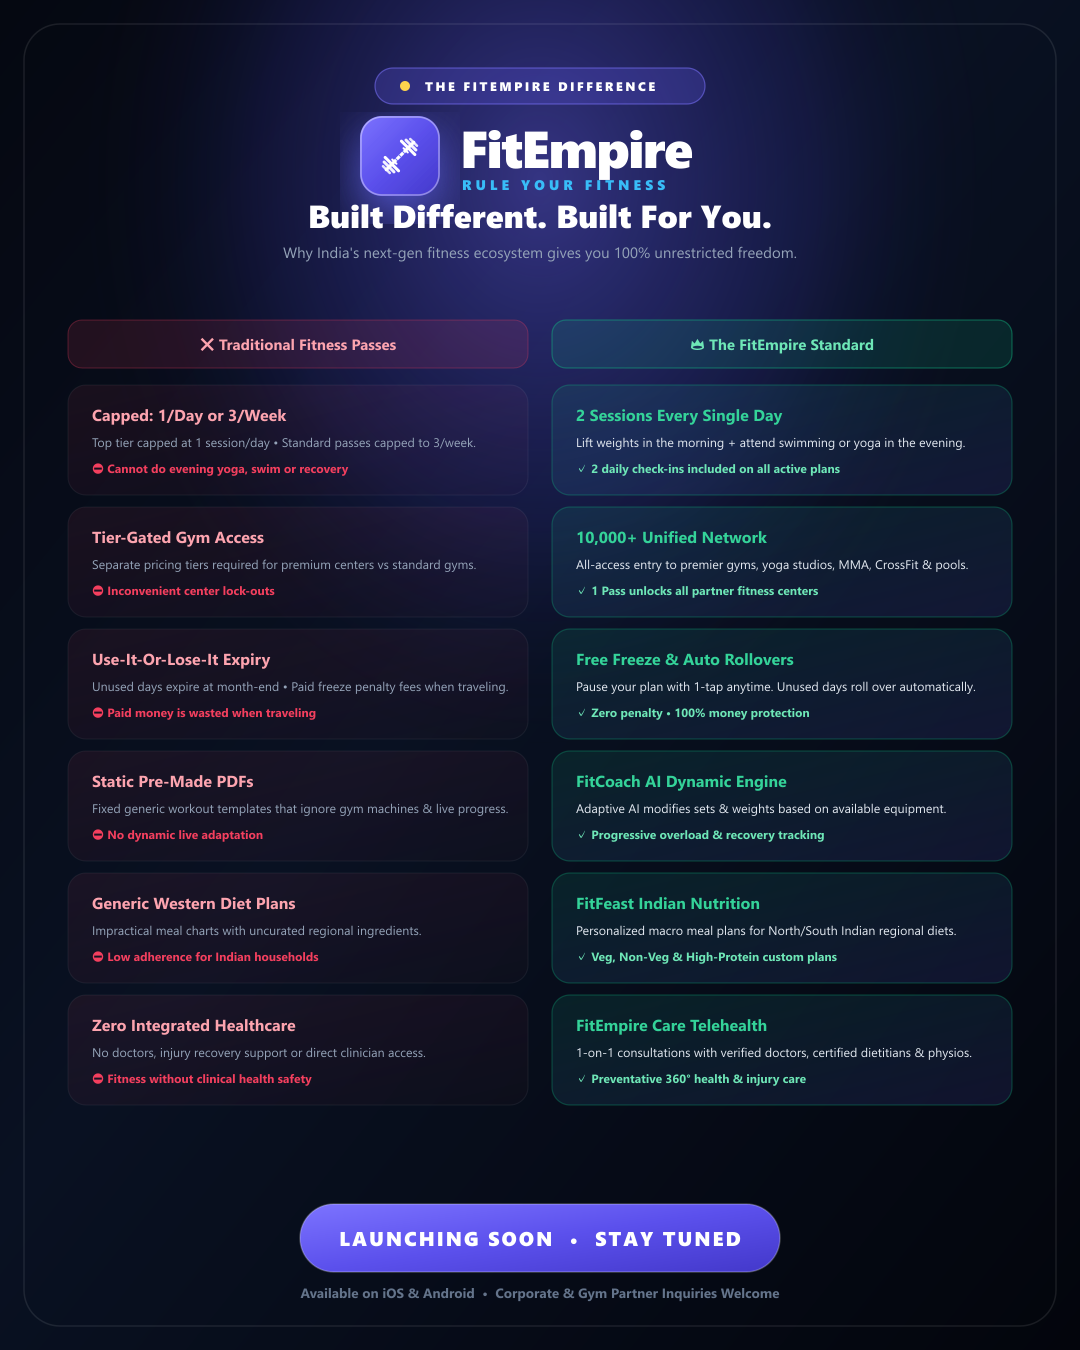
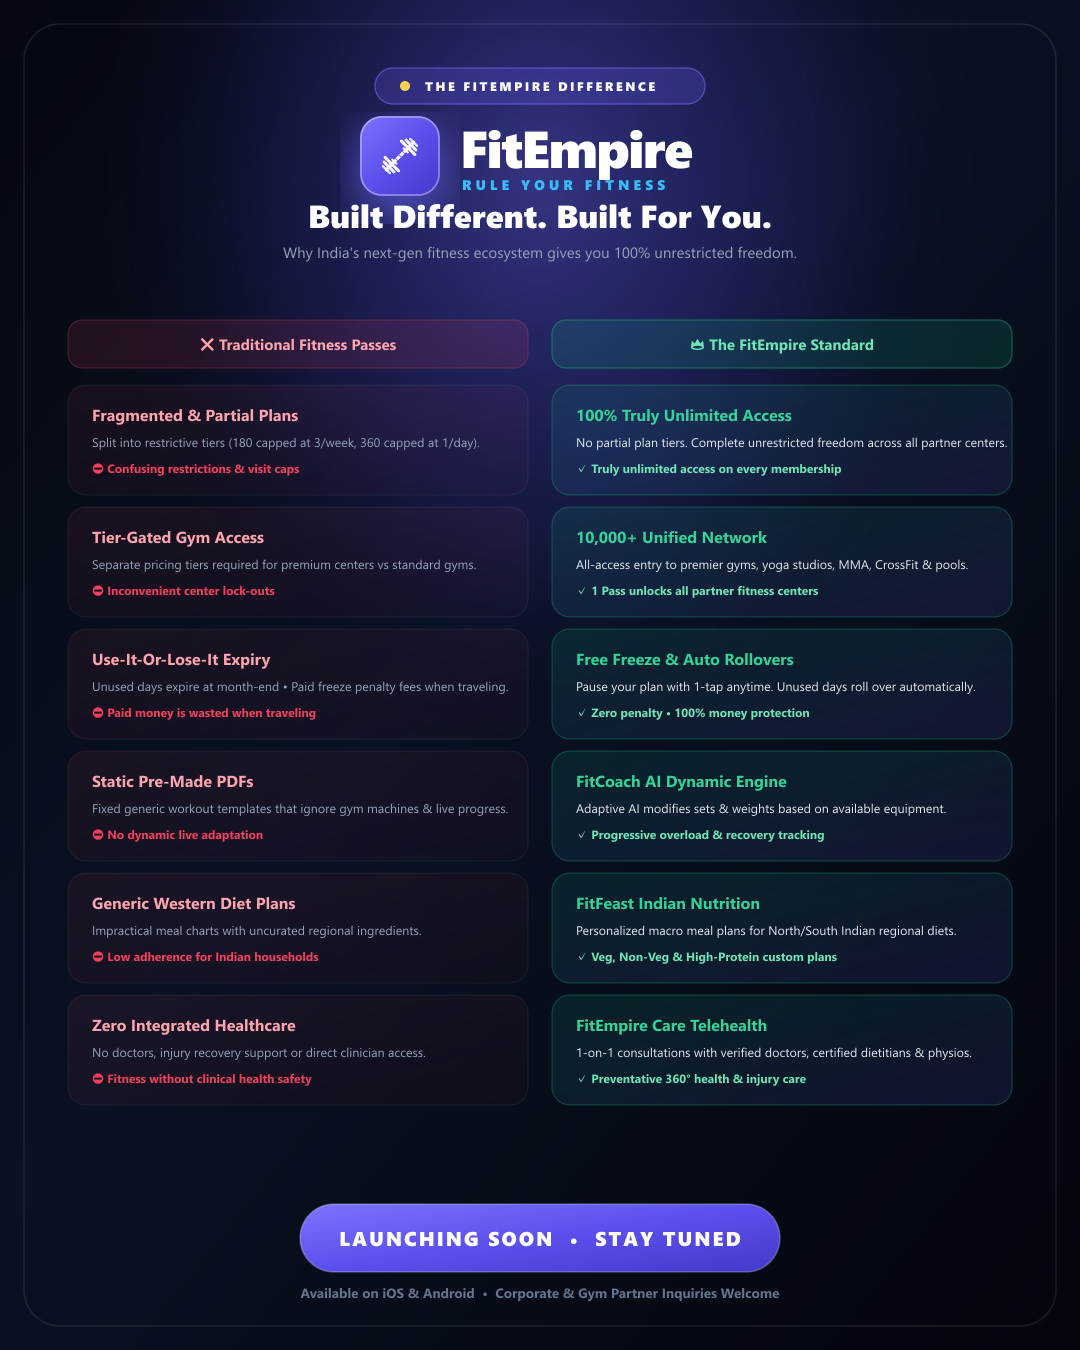
assets: update difference posters to emphasize 100% Truly Unlimited Access vs Fragmented & Partial Plans

Changed region(s): [[0.55, 0.28, 0.8861, 0.3733], [0.0917, 0.28, 0.3056, 0.3733], [0.3361, 0.3111, 0.4278, 0.3422]]

diff --git a/scripts/marketing/generate_vertical_only_posters.js b/scripts/marketing/generate_vertical_only_posters.js
@@ -50,7 +50,7 @@ const vertical4x5Svg = `
   <g transform="translate(540, 68)">
     <rect x="-165" y="0" width="330" height="36" rx="18" fill="rgba(108, 99, 255, 0.22)" stroke="rgba(124, 115, 255, 0.55)" stroke-width="1.2" />
     <circle cx="-135" cy="18" r="5" fill="#FCD34D" />
-    <text x="-115" y="23" font-family="'Segoe UI', Roboto, -apple-system, sans-serif" font-size="12.5" font-weight="900" letter-spacing="2.5" fill="#FFFFFF">
+    <text x="-115" y="23" font-family="'Segoe UI', Roboto, sans-serif" font-size="12.5" font-weight="900" letter-spacing="2.5" fill="#FFFFFF">
       THE FITEMPIRE ADVANTAGE
     </text>
 
@@ -97,24 +97,24 @@ const vertical4x5Svg = `
   <!-- 2. Vertical Feature Differentiator Cards (6 Stacked Cards) -->
   <g transform="translate(68, 325)">
     
-    <!-- 1. Dual Daily Sessions -->
+    <!-- 1. 100% Truly Unlimited Access -->
     <g transform="translate(0, 0)">
       <rect x="0" y="0" width="944" height="110" rx="22" fill="url(#vCardGrad)" stroke="rgba(255,255,255,0.12)" stroke-width="1.2" />
       <rect x="18" y="18" width="74" height="74" rx="18" fill="rgba(56, 189, 248, 0.18)" stroke="rgba(56, 189, 248, 0.4)" stroke-width="1.2" />
       <text x="55" y="64" text-anchor="middle" font-family="'Segoe UI', Roboto, sans-serif" font-size="32">⚡</text>
-      <text x="110" y="44" font-family="'Segoe UI', Roboto, sans-serif" font-size="20" font-weight="800" fill="#FFFFFF">Dual Daily Workout Sessions</text>
-      <text x="110" y="70" font-family="'Segoe UI', Roboto, sans-serif" font-size="13.5" font-weight="500" fill="#94A3B8">Lift weights in the morning + attend evening swimming or yoga on the exact same day.</text>
-      <text x="110" y="94" font-family="'Segoe UI', Roboto, sans-serif" font-size="12" font-weight="800" fill="#38BDF8">👑 FitEmpire: 2 Daily Sessions Included &#160;•&#160; <tspan fill="#F87171">❌ Others: Capped at 1/day (or 3/week on standard plans)</tspan></text>
+      <text x="110" y="44" font-family="'Segoe UI', Roboto, sans-serif" font-size="20" font-weight="800" fill="#FFFFFF">100% Truly Unlimited Access</text>
+      <text x="110" y="70" font-family="'Segoe UI', Roboto, sans-serif" font-size="13.5" font-weight="500" fill="#94A3B8">No partial plan tiers. Complete unrestricted freedom across all partner fitness centers.</text>
+      <text x="110" y="94" font-family="'Segoe UI', Roboto, sans-serif" font-size="12" font-weight="800" fill="#38BDF8">👑 FitEmpire: 100% Truly Unlimited &#160;•&#160; <tspan fill="#F87171">❌ Others: Fragmented 180 &amp; 360 Partial Plans</tspan></text>
     </g>
 
-    <!-- 2. Unrestricted Multi-Gym Access -->
+    <!-- 2. 10,000+ Multi-Gym Freedom -->
     <g transform="translate(0, 125)">
       <rect x="0" y="0" width="944" height="110" rx="22" fill="url(#vCardGrad)" stroke="rgba(255,255,255,0.12)" stroke-width="1.2" />
-      <rect x="18" y="18" width="74" height="74" rx="18" fill="rgba(16, 185, 129, 0.18)" stroke="rgba(16, 185, 129, 0.4)" stroke-width="1.2" />
+      <rect x="18" y="18" width="74" height="74" rx="18" fill="rgba(168, 85, 247, 0.18)" stroke="rgba(168, 85, 247, 0.4)" stroke-width="1.2" />
       <text x="55" y="64" text-anchor="middle" font-family="'Segoe UI', Roboto, sans-serif" font-size="32">🏋</text>
       <text x="110" y="44" font-family="'Segoe UI', Roboto, sans-serif" font-size="20" font-weight="800" fill="#FFFFFF">10,000+ Multi-Gym Freedom</text>
       <text x="110" y="70" font-family="'Segoe UI', Roboto, sans-serif" font-size="13.5" font-weight="500" fill="#94A3B8">Work out at premier gyms, yoga studios, MMA, CrossFit &amp; aquatic arenas nationwide.</text>
-      <text x="110" y="94" font-family="'Segoe UI', Roboto, sans-serif" font-size="12" font-weight="800" fill="#34D399">👑 FitEmpire: Complete Multi-Center Access &#160;•&#160; <tspan fill="#94A3B8">Seamless contactless turnstile entry</tspan></text>
+      <text x="110" y="94" font-family="'Segoe UI', Roboto, sans-serif" font-size="12" font-weight="800" fill="#C084FC">👑 FitEmpire: Complete Multi-Center Access &#160;•&#160; <tspan fill="#94A3B8">Seamless contactless turnstile entry</tspan></text>
     </g>
 
     <!-- 3. Free Freeze & Rollovers -->
@@ -130,11 +130,11 @@ const vertical4x5Svg = `
     <!-- 4. FitCoach AI Engine -->
     <g transform="translate(0, 375)">
       <rect x="0" y="0" width="944" height="110" rx="22" fill="url(#vCardGrad)" stroke="rgba(255,255,255,0.12)" stroke-width="1.2" />
-      <rect x="18" y="18" width="74" height="74" rx="18" fill="rgba(168, 85, 247, 0.18)" stroke="rgba(168, 85, 247, 0.4)" stroke-width="1.2" />
+      <rect x="18" y="18" width="74" height="74" rx="18" fill="rgba(16, 185, 129, 0.18)" stroke="rgba(16, 185, 129, 0.4)" stroke-width="1.2" />
       <text x="55" y="64" text-anchor="middle" font-family="'Segoe UI', Roboto, sans-serif" font-size="32">🤖</text>
       <text x="110" y="44" font-family="'Segoe UI', Roboto, sans-serif" font-size="20" font-weight="800" fill="#FFFFFF">FitCoach AI Adaptive Workout Engine</text>
       <text x="110" y="70" font-family="'Segoe UI', Roboto, sans-serif" font-size="13.5" font-weight="500" fill="#94A3B8">Dynamic real-time workout generator adjusts reps, weight &amp; splits to available gym gear.</text>
-      <text x="110" y="94" font-family="'Segoe UI', Roboto, sans-serif" font-size="12" font-weight="800" fill="#C084FC">👑 FitEmpire: Live Dynamic Overload AI &#160;•&#160; <tspan fill="#F87171">❌ Others: Static Generic PDF Templates</tspan></text>
+      <text x="110" y="94" font-family="'Segoe UI', Roboto, sans-serif" font-size="12" font-weight="800" fill="#34D399">👑 FitEmpire: Live Dynamic Overload AI &#160;•&#160; <tspan fill="#F87171">❌ Others: Static Generic PDF Templates</tspan></text>
     </g>
 
     <!-- 5. FitFeast Indian Macro Nutrition -->
@@ -268,19 +268,19 @@ const vertical9x16Svg = `
       <rect x="0" y="0" width="944" height="135" rx="24" fill="url(#sCardGrad)" stroke="rgba(255,255,255,0.12)" stroke-width="1.2" />
       <rect x="22" y="24" width="86" height="86" rx="20" fill="rgba(56, 189, 248, 0.18)" stroke="rgba(56, 189, 248, 0.4)" stroke-width="1.2" />
       <text x="65" y="76" text-anchor="middle" font-family="'Segoe UI', Roboto, sans-serif" font-size="38">⚡</text>
-      <text x="126" y="52" font-family="'Segoe UI', Roboto, sans-serif" font-size="22" font-weight="800" fill="#FFFFFF">Dual Daily Workout Sessions</text>
-      <text x="126" y="82" font-family="'Segoe UI', Roboto, sans-serif" font-size="14.5" font-weight="500" fill="#94A3B8">Lift weights in the morning + attend swimming or yoga on the exact same day.</text>
-      <text x="126" y="112" font-family="'Segoe UI', Roboto, sans-serif" font-size="13" font-weight="800" fill="#38BDF8">👑 FitEmpire: 2 Daily Sessions Included &#160;•&#160; <tspan fill="#F87171">❌ Others: Capped at 1/day (or 3/week on standard plans)</tspan></text>
+      <text x="126" y="52" font-family="'Segoe UI', Roboto, sans-serif" font-size="22" font-weight="800" fill="#FFFFFF">100% Truly Unlimited Access</text>
+      <text x="126" y="82" font-family="'Segoe UI', Roboto, sans-serif" font-size="14.5" font-weight="500" fill="#94A3B8">No partial plan tiers. Complete unrestricted freedom across all partner fitness centers.</text>
+      <text x="126" y="112" font-family="'Segoe UI', Roboto, sans-serif" font-size="13" font-weight="800" fill="#38BDF8">👑 FitEmpire: 100% Truly Unlimited &#160;•&#160; <tspan fill="#F87171">❌ Others: Fragmented 180 &amp; 360 Partial Plans</tspan></text>
     </g>
 
     <!-- 2 -->
     <g transform="translate(0, 155)">
       <rect x="0" y="0" width="944" height="135" rx="24" fill="url(#sCardGrad)" stroke="rgba(255,255,255,0.12)" stroke-width="1.2" />
-      <rect x="22" y="24" width="86" height="86" rx="20" fill="rgba(16, 185, 129, 0.18)" stroke="rgba(16, 185, 129, 0.4)" stroke-width="1.2" />
+      <rect x="22" y="24" width="86" height="86" rx="20" fill="rgba(168, 85, 247, 0.18)" stroke="rgba(168, 85, 247, 0.4)" stroke-width="1.2" />
       <text x="65" y="76" text-anchor="middle" font-family="'Segoe UI', Roboto, sans-serif" font-size="38">🏋</text>
       <text x="126" y="52" font-family="'Segoe UI', Roboto, sans-serif" font-size="22" font-weight="800" fill="#FFFFFF">10,000+ Multi-Gym Network</text>
       <text x="126" y="82" font-family="'Segoe UI', Roboto, sans-serif" font-size="14.5" font-weight="500" fill="#94A3B8">Work out at premier gyms, yoga studios, MMA, CrossFit &amp; aquatic arenas nationwide.</text>
-      <text x="126" y="112" font-family="'Segoe UI', Roboto, sans-serif" font-size="13" font-weight="800" fill="#34D399">👑 FitEmpire: Complete Multi-Center Access &#160;•&#160; <tspan fill="#94A3B8">Seamless contactless turnstile entry</tspan></text>
+      <text x="126" y="112" font-family="'Segoe UI', Roboto, sans-serif" font-size="13" font-weight="800" fill="#C084FC">👑 FitEmpire: Complete Multi-Center Access &#160;•&#160; <tspan fill="#94A3B8">Seamless contactless turnstile entry</tspan></text>
     </g>
 
     <!-- 3 -->
@@ -296,11 +296,11 @@ const vertical9x16Svg = `
     <!-- 4 -->
     <g transform="translate(0, 465)">
       <rect x="0" y="0" width="944" height="135" rx="24" fill="url(#sCardGrad)" stroke="rgba(255,255,255,0.12)" stroke-width="1.2" />
-      <rect x="22" y="24" width="86" height="86" rx="20" fill="rgba(168, 85, 247, 0.18)" stroke="rgba(168, 85, 247, 0.4)" stroke-width="1.2" />
+      <rect x="22" y="24" width="86" height="86" rx="20" fill="rgba(16, 185, 129, 0.18)" stroke="rgba(16, 185, 129, 0.4)" stroke-width="1.2" />
       <text x="65" y="76" text-anchor="middle" font-family="'Segoe UI', Roboto, sans-serif" font-size="38">🤖</text>
       <text x="126" y="52" font-family="'Segoe UI', Roboto, sans-serif" font-size="22" font-weight="800" fill="#FFFFFF">FitCoach AI Adaptive Workout Engine</text>
       <text x="126" y="82" font-family="'Segoe UI', Roboto, sans-serif" font-size="14.5" font-weight="500" fill="#94A3B8">Dynamic real-time workout generator adjusts reps, weight &amp; splits to available gym gear.</text>
-      <text x="126" y="112" font-family="'Segoe UI', Roboto, sans-serif" font-size="13" font-weight="800" fill="#C084FC">👑 FitEmpire: Live Dynamic Overload AI &#160;•&#160; <tspan fill="#F87171">❌ Others: Static Generic PDF Templates</tspan></text>
+      <text x="126" y="112" font-family="'Segoe UI', Roboto, sans-serif" font-size="13" font-weight="800" fill="#34D399">👑 FitEmpire: Live Dynamic Overload AI &#160;•&#160; <tspan fill="#F87171">❌ Others: Static Generic PDF Templates</tspan></text>
     </g>
 
     <!-- 5 -->
@@ -344,19 +344,21 @@ const vertical9x16Svg = `
 `;
 
 async function generate() {
-  console.log('Rendering Pure Vertical Rectangle Posters with exact tiering copy...');
+  console.log('Rendering Pure Vertical Rectangle Posters with Truly Unlimited copy...');
 
   const vertical4x5Buffer = await sharp(Buffer.from(vertical4x5Svg)).png().toBuffer();
   const vertical9x16Buffer = await sharp(Buffer.from(vertical9x16Svg)).png().toBuffer();
 
   const destinations = [
     // 4:5 Vertical Feed Poster (1080 x 1350)
+    { file: `${REPO_ROOT}/assets/marketing/fitempire-vertical-advantage.png`, data: vertical4x5Buffer },
     { file: `${REPO_ROOT}/fitempire-admin/public/fitempire-vertical-advantage.png`, data: vertical4x5Buffer },
     { file: `${REPO_ROOT}/fitempire-partner/public/fitempire-vertical-advantage.png`, data: vertical4x5Buffer },
     { file: `${REPO_ROOT}/fitempire-mobile/assets/images/fitempire-vertical-advantage.png`, data: vertical4x5Buffer },
     { file: `${REPO_ROOT}/fitempire-backend/src/main/resources/static/fitempire-vertical-advantage.png`, data: vertical4x5Buffer },
 
     // 9:16 Full Story / Mobile Poster (1080 x 1920)
+    { file: `${REPO_ROOT}/assets/marketing/fitempire-vertical-story.png`, data: vertical9x16Buffer },
     { file: `${REPO_ROOT}/fitempire-admin/public/fitempire-vertical-story.png`, data: vertical9x16Buffer },
     { file: `${REPO_ROOT}/fitempire-partner/public/fitempire-vertical-story.png`, data: vertical9x16Buffer },
     { file: `${REPO_ROOT}/fitempire-mobile/assets/images/fitempire-vertical-story.png`, data: vertical9x16Buffer },

diff --git a/scripts/marketing/generate_comparison_posters.js b/scripts/marketing/generate_comparison_posters.js
@@ -116,17 +116,17 @@ const portraitComparisonSvg = `
   <!-- 3. 6 Key Differentiator Comparison Rows -->
   <g transform="translate(68, 385)">
     
-    <!-- Row 1: Session Limits (1/day or 3/week vs 2/day) -->
+    <!-- Row 1: True Unlimited vs Partial Fragmented Plans -->
     <g transform="translate(0, 0)">
       <rect x="0" y="0" width="460" height="110" rx="18" fill="url(#oldPassGrad)" stroke="rgba(255,255,255,0.06)" stroke-width="1" />
-      <text x="24" y="36" font-family="'Segoe UI', Roboto, sans-serif" font-size="16" font-weight="800" fill="#FDA4AF">Capped: 1/Day or 3/Week</text>
-      <text x="24" y="62" font-family="'Segoe UI', Roboto, sans-serif" font-size="12.5" font-weight="500" fill="#94A3B8">Top tier capped at 1 session/day • Standard passes capped to 3/week.</text>
-      <text x="24" y="88" font-family="'Segoe UI', Roboto, sans-serif" font-size="12" font-weight="700" fill="#F43F5E">⛔ Cannot do evening yoga, swim or recovery</text>
+      <text x="24" y="36" font-family="'Segoe UI', Roboto, sans-serif" font-size="16" font-weight="800" fill="#FDA4AF">Fragmented &amp; Partial Plans</text>
+      <text x="24" y="62" font-family="'Segoe UI', Roboto, sans-serif" font-size="12.5" font-weight="500" fill="#94A3B8">Split into restrictive tiers (180 capped at 3/week, 360 capped at 1/day).</text>
+      <text x="24" y="88" font-family="'Segoe UI', Roboto, sans-serif" font-size="12" font-weight="700" fill="#F43F5E">⛔ Confusing restrictions &amp; visit caps</text>
 
       <rect x="484" y="0" width="460" height="110" rx="18" fill="url(#fitEmpireGrad)" stroke="rgba(16, 185, 129, 0.3)" stroke-width="1.2" />
-      <text x="508" y="36" font-family="'Segoe UI', Roboto, sans-serif" font-size="16" font-weight="800" fill="#34D399">2 Sessions Every Single Day</text>
-      <text x="508" y="62" font-family="'Segoe UI', Roboto, sans-serif" font-size="12.5" font-weight="500" fill="#E2E8F0">Lift weights in the morning + attend swimming or yoga in the evening.</text>
-      <text x="508" y="88" font-family="'Segoe UI', Roboto, sans-serif" font-size="12" font-weight="800" fill="#6EE7B7">✓ 2 daily check-ins included on all active plans</text>
+      <text x="508" y="36" font-family="'Segoe UI', Roboto, sans-serif" font-size="16" font-weight="800" fill="#34D399">100% Truly Unlimited Access</text>
+      <text x="508" y="62" font-family="'Segoe UI', Roboto, sans-serif" font-size="12.5" font-weight="500" fill="#E2E8F0">No partial plan tiers. Complete unrestricted freedom across all partner centers.</text>
+      <text x="508" y="88" font-family="'Segoe UI', Roboto, sans-serif" font-size="12" font-weight="800" fill="#6EE7B7">✓ Truly unlimited access on every membership</text>
     </g>
 
     <!-- Row 2: Facility & Multi-Gym Access -->
@@ -305,15 +305,15 @@ const landscapeComparisonSvg = `
       👑 The FitEmpire Standard
     </text>
 
-    <!-- Comparison Item 1: Sessions per day -->
+    <!-- Comparison Item 1: True Unlimited vs Fragmented Plans -->
     <g transform="translate(0, 56)">
       <rect x="0" y="0" width="840" height="88" rx="16" fill="url(#oldPassGrad)" stroke="rgba(255,255,255,0.06)" stroke-width="1" />
-      <text x="24" y="34" font-family="'Segoe UI', Roboto, sans-serif" font-size="16" font-weight="800" fill="#FDA4AF">Capped: 1/Day or 3/Week</text>
-      <text x="24" y="58" font-family="'Segoe UI', Roboto, sans-serif" font-size="13" font-weight="500" fill="#94A3B8">Top tier capped at 1 session/day • Standard plans capped at 3 sessions/week</text>
+      <text x="24" y="34" font-family="'Segoe UI', Roboto, sans-serif" font-size="16" font-weight="800" fill="#FDA4AF">Fragmented &amp; Partial Plans</text>
+      <text x="24" y="58" font-family="'Segoe UI', Roboto, sans-serif" font-size="13" font-weight="500" fill="#94A3B8">Split into restrictive tiers (180 capped at 3/week, 360 capped at 1/day)</text>
 
       <rect x="880" y="0" width="840" height="88" rx="16" fill="url(#fitEmpireGrad)" stroke="rgba(16, 185, 129, 0.3)" stroke-width="1.2" />
-      <text x="904" y="34" font-family="'Segoe UI', Roboto, sans-serif" font-size="16" font-weight="800" fill="#34D399">2 Sessions Every Single Day</text>
-      <text x="904" y="58" font-family="'Segoe UI', Roboto, sans-serif" font-size="13" font-weight="500" fill="#E2E8F0">Lift weights in morning + attend swim or yoga in evening • 2 check-ins daily</text>
+      <text x="904" y="34" font-family="'Segoe UI', Roboto, sans-serif" font-size="16" font-weight="800" fill="#34D399">100% Truly Unlimited Access</text>
+      <text x="904" y="58" font-family="'Segoe UI', Roboto, sans-serif" font-size="13" font-weight="500" fill="#E2E8F0">No partial plan tiers. Complete unrestricted freedom across all partner centers</text>
     </g>
 
     <!-- Comparison Item 2: Multi-Gym Access -->
@@ -375,23 +375,24 @@ const landscapeComparisonSvg = `
 `;
 
 async function generate() {
-  console.log('Rendering 2-Column Comparison Posters with exact refined copy...');
+  console.log('Rendering Truly Unlimited 2-Column Comparison Posters...');
 
   const portraitBuffer = await sharp(Buffer.from(portraitComparisonSvg)).png().toBuffer();
   const landscapeBuffer = await sharp(Buffer.from(landscapeComparisonSvg)).png().toBuffer();
 
   const destinations = [
-    // Portrait 4:5 Comparison Poster (1080 x 1350)
-    { file: `${REPO_ROOT}/fitempire-admin/public/fitempire-difference-portrait.png`, data: portraitBuffer },
-    { file: `${REPO_ROOT}/fitempire-partner/public/fitempire-difference-portrait.png`, data: portraitBuffer },
-    { file: `${REPO_ROOT}/fitempire-mobile/assets/images/fitempire-difference-portrait.png`, data: portraitBuffer },
-    { file: `${REPO_ROOT}/fitempire-backend/src/main/resources/static/fitempire-difference-portrait.png`, data: portraitBuffer },
+    // Root marketing asset directory
+    { file: `${REPO_ROOT}/assets/marketing/fitempire-difference-portrait.png`, data: portraitBuffer },
+    { file: `${REPO_ROOT}/assets/marketing/fitempire-difference-landscape.png`, data: landscapeBuffer },
 
-    // Landscape 16:9 Comparison Poster (1920 x 1080)
-    { file: `${REPO_ROOT}/fitempire-difference-landscape.png`, data: landscapeBuffer },
+    // App & Service public folders
+    { file: `${REPO_ROOT}/fitempire-admin/public/fitempire-difference-portrait.png`, data: portraitBuffer },
     { file: `${REPO_ROOT}/fitempire-admin/public/fitempire-difference-landscape.png`, data: landscapeBuffer },
+    { file: `${REPO_ROOT}/fitempire-partner/public/fitempire-difference-portrait.png`, data: portraitBuffer },
     { file: `${REPO_ROOT}/fitempire-partner/public/fitempire-difference-landscape.png`, data: landscapeBuffer },
+    { file: `${REPO_ROOT}/fitempire-mobile/assets/images/fitempire-difference-portrait.png`, data: portraitBuffer },
     { file: `${REPO_ROOT}/fitempire-mobile/assets/images/fitempire-difference-landscape.png`, data: landscapeBuffer },
+    { file: `${REPO_ROOT}/fitempire-backend/src/main/resources/static/fitempire-difference-portrait.png`, data: portraitBuffer },
     { file: `${REPO_ROOT}/fitempire-backend/src/main/resources/static/fitempire-difference-landscape.png`, data: landscapeBuffer },
   ];
 
@@ -402,7 +403,7 @@ async function generate() {
     console.log('Saved:', item.file);
   }
 
-  console.log('2-Column comparison posters updated successfully!');
+  console.log('Truly Unlimited 2-Column comparison posters updated successfully!');
 }
 
 generate().catch(err => {
